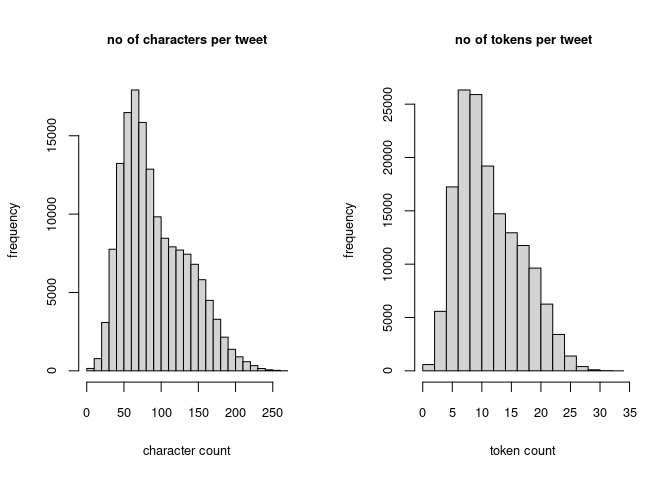
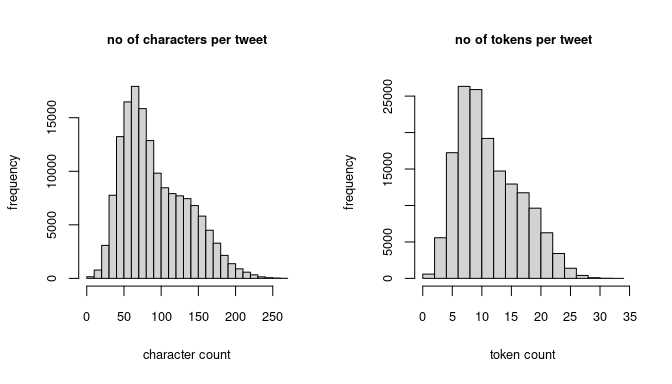
Scale down plots.

diff --git a/doc/topic_modeling/modeling_report.md b/doc/topic_modeling/modeling_report.md
@@ -3,6 +3,10 @@
 
 > Martin Fridrich 03/2021
 
+The goal of this document is to preprocess the \#zerowaste tweets,
+examine properties of the resulting dataset, find viable topic model,
+and present imprinted perspectives. The study is structured as follows:
+
 1 [Housekeepin’](#housekeepin)  
 2 [Data processing](#data-processing)  
   2.1 [Covariate, character & document-level
@@ -201,7 +205,7 @@ hist(meta$year,
      main="no of tweets over years",
      xlab="year",
      #ylim=c(0,45000),
-     #breaks=11,
+     breaks=11,
      cex.main=0.8, cex.axis=0.8, cex.lab=0.8)
 ```
 
@@ -213,7 +217,6 @@ n_chars = nchar(meta$text)
 n_tokens = stringr::str_count(meta$text, "\\w+")
 
 par(mfrow=c(1,2))
-
 hist(n_chars,
      main="no of characters per tweet",
      ylab="frequency",
@@ -240,17 +243,13 @@ freq_df = data.frame(doc) %>% data.table::transpose() %>%
   mutate(token=voc[token])
 
 par(mfrow=c(1,2))
-
 hist(x=log10(freq_df$count), main="Token frequency",
   ylab="frequency", xlab="log10 count", breaks=25,
-  cex.lab=0.8, cex.main=0.8, cex=0.8)
-
+  cex.lab=0.8, cex.main=0.8, cex.axis=0.8)
 with(tail(freq_df, 20),
   barplot(height = log10(count),
   names.arg=token, main="20 most frequent tokens", xlab="log10 count",
-  horiz = T, las=2,
-  cex.names=0.8, cex.lab=0.8,
-  cex.main=0.8, cex=0.8))
+  horiz = T, las=2, cex.names=0.8, cex.lab=0.8, cex.main=0.8, cex.axis=0.8))
 ```
 
 <img src="modeling_report_files/figure-gfm/tok_bars-1.png" style="display: block; margin: auto;" />
